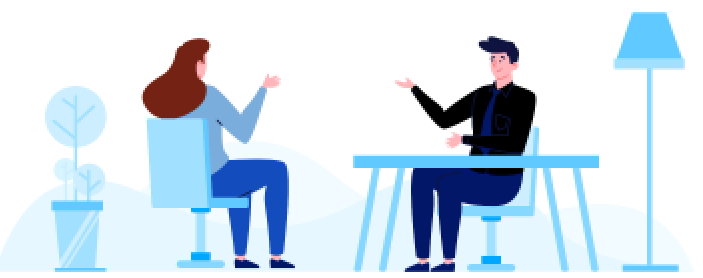
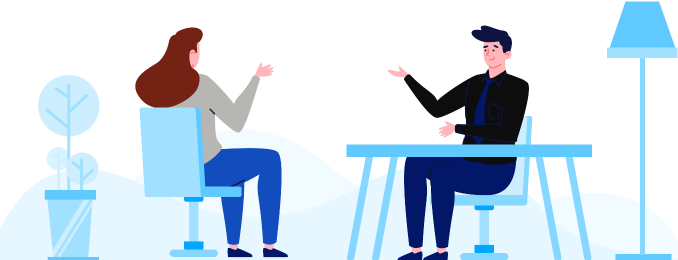
Remove unused parts
Removes unused classes, adds new classes to be used and make them functional.

diff --git a/src/app/components/dadosPessoais/dadosPessoais.component.ts b/src/app/components/dadosPessoais/dadosPessoais.component.ts
@@ -1,10 +1,10 @@
 import { Component, OnInit } from '@angular/core';
 import { FormBuilder, FormGroup, Validators } from '@angular/forms';
-import { Call } from 'src/models/call.model';
-import { Location } from '@angular/common';
-import { Destination } from 'src/models/destination.model';
-import { Plan } from 'src/models/plan.model';
 import { Mocker } from 'src/helpers/Mocker';
+
+import { Location } from 'src/models/location.model'
+import { PersonalData } from 'src/models/personalData.model'
+import { SocialMedia } from 'src/models/socialMedia.model'
 
 @Component({
   selector: 'dadosPessoais',
@@ -12,77 +12,46 @@ import { Mocker } from 'src/helpers/Mocker';
   styleUrls: ['./dadosPessoais.component.scss']
 })
 export class DadosPessoaisComponent implements OnInit {
+  public locations: Array<Location> = null;
+  public socialMedias: Array<SocialMedia> = null;
 
-  public callOptions: Array<Call> = null;
-  public plans: Array<Plan> = null;
-  public selectedCall: Call = null;
-  public showPrices: boolean = false;
-
-  public faleMaisPrice: number = 0;
-  public normalPrice: number = 0;
-
-  
-  public simuladorForm = this.fb.group({
-    selectedCallId: [0],
-    selectedDestinyId: [0],
-    time: [15, [Validators.max(600), Validators.min(1), Validators.required]],
-    plan: [null, Validators.required],
+  public dataForm = this.fb.group({
+    name: null,
+    phone: null,
+    knownFrom: [0],
+    socialMedia: [null, Validators.required],
   });
+
 
   constructor(private fb: FormBuilder) { }
   
   ngOnInit() {
-    this.callOptions = Mocker.mockCalls();
-    this.plans = Mocker.mockPlans();
-    this.selectedCall = this.callOptions[0];
+    this.locations = Mocker.mockLocations();
+    this.socialMedias = Mocker.mockSocialMedias();
   }
 
 
-  callSelected() { 
-    this.selectedCall = this.callOptions[this.simuladorForm.get('selectedCallId').value]
-    this.updatePrice();
+  updated() {
+    console.log("\n\n")
+    console.log(this.dataForm.get('name').value)
+    console.log(this.dataForm.get('phone').value)
+    console.log(this.dataForm.get('knownFrom').value)
+    console.log(this.dataForm.get('socialMedia').value)
   }
 
+  socialMediaSelected(event) {
+    var selectedMedia = event.path[1];
+    var [comment, ...medias]: Array<any> = event.path[2].childNodes;
+    
+    var selectedStyle: string = "background-color: var(--PRIMARY-COLOR); color: white; border-color: var(--PRIMARY-COLOR); font-weight: 500";
+    var defaultStyle: string = "background-color: white; color: black; border-color: black; font-weight: 100";
 
-  planSelected(event) {
-    var selectedPlan = event.path[1];
-    var [comment, ...plans]: Array<any> = event.path[2].childNodes;
-    
-    var selectedStyle:string = "background-color: var(--PRIMARY-COLOR); color: white; border-color: var(--PRIMARY-COLOR); font-weight: 500";
-    var defaultStyle:string = "background-color: white; color: black; border-color: black; font-weight: 100";
-    
-    plans.forEach(plan => {
-      plan == selectedPlan ?
+    medias.forEach(plan => {
+      plan == selectedMedia ?
               plan.setAttribute("style", selectedStyle) : 
               plan.setAttribute("style", defaultStyle);
     });
 
-    this.updatePrice();
+    this.updated();
   }
-
-
-  updatePrice(): void {
-    // UPDATED ONLY IF FORM IS VALID
-    if(this.simuladorForm.valid)  this.showPrices = true;
-    else                          return;
-    
-    var usedTime = this.simuladorForm.get('time').value;
-    var availableMinutes: number = parseInt(this.simuladorForm.get('plan').value);
-    var price: number =  this.selectedCall.destinations[this.simuladorForm.get('selectedDestinyId').value].price;
-    
-
-    this.faleMaisPrice = Math.max(0, (usedTime - availableMinutes)) * price;
-    this.normalPrice = usedTime * price;
-  }
-
-  
-  getInteger(numb): string { 
-    var intString: string = (numb + "").split(".")[0]                           // Gets int part
-    return intString.length < 2 ? '0' + intString : intString;                  // Turns 'x' to '0x' 
-  }
-  getDecimal(numb): string {
-    var formatedDecimal: string = (Math.round(numb * 100) / 100).toFixed(2);   // Formats 'xx.x' to 'xx.x0'
-    return (formatedDecimal).split(".")[1]                                     // Gets decimal part
-  }
-
 }

diff --git a/src/helpers/Mocker.ts b/src/helpers/Mocker.ts
@@ -1,64 +1,21 @@
-import { Call } from 'src/models/call.model';
-import { Plan } from 'src/models/plan.model';
-import { Destination } from 'src/models/destination.model';
+import { Location } from 'src/models/location.model';
+import { SocialMedia } from 'src/models/socialMedia.model';
+
 
 export class Mocker {
-    static mockCalls(): Array<Call> {
-        let location011: Location = <Location> <any> { 'name': 'São Paulo', 'ddd': '011' };
-        let location016: Location = <Location> <any> { 'name': 'São Paulo', 'ddd': '016' };
-        let location017: Location = <Location> <any> { 'name': 'São Paulo', 'ddd': '017' };
-        let location018: Location = <Location> <any> { 'name': 'São Paulo', 'ddd': '018' };
+    static mockLocations(): Array<Location> {
+        let location0 = <Location> <any> { 'id': 0, 'name': 'Internet'}
+        let location1 = <Location> <any> { 'id': 1, 'name': 'Tv'}
+        let location2 = <Location> <any> { 'id': 2, 'name': 'Outros'}
         
-
-        // Calls From 011
-        let destination011_016 = <Destination> <any> { 'location': location016, 'price': 1.90 }
-        let destination011_017 = <Destination> <any> { 'location': location017, 'price': 1.70 }
-        let destination011_018 = <Destination> <any> { 'location': location018, 'price': 0.90 }
-
-        let call011 = <Call> <any> {
-            'origin': location011,
-            'destinations': [destination011_016, destination011_017, destination011_018]
-        }
-
-
-        // Call From 016
-        let destination016_011 = <Destination> <any> { 'location': location011, 'price': 2.90}
-
-        let call016 = <Call> <any> {
-            'origin': location016,
-            'destinations': [destination016_011]
-        }
-
-
-        // Call From 017
-        let destination017_011 = <Destination> <any> { 'location': location011, 'price': 2.70 }
-
-        let call017 = <Call> <any> {
-            'origin': location017,
-            'destinations': [destination017_011]
-        }
-
-
-        // Call From 018
-        let destination018_011 = <Destination> <any> { 'location': location011, 'price': 1.90}
-
-        let call018 = <Call> <any> {
-            'origin': location018,
-            'destinations': [destination018_011]
-        }
-
-
-        return [call011, call016, call017, call018];
+        return [location0, location1, location2];
     }
 
-
-    static mockPlans(): Array<Plan> {
-        let plan30 = <Plan> <any> { 'name': 'faleMais30', 'time': 30 }
-        let plan60 = <Plan> <any> { 'name': 'faleMais60', 'time': 60 }
-        let plan90 = <Plan> <any> { 'name': 'faleMais90', 'time': 90 }
-        let plan120 = <Plan> <any> { 'name': 'faleMais120', 'time': 120 }
-
-        return [plan30, plan60, plan90, plan120]
+    static mockSocialMedias(): Array<SocialMedia> {
+        let socialMedia0 = <SocialMedia> <any> { 'id': 0, 'name': 'Facebook'}
+        let socialMedia1 = <SocialMedia> <any> { 'id': 1, 'name': 'Linkedin'}
+        let socialMedia2 = <SocialMedia> <any> { 'id': 2, 'name': 'Instagram'}
+        
+        return [socialMedia0, socialMedia1, socialMedia2];
     }
-
 }

diff --git a/src/app/components/dadosPessoais/dadosPessoais.component.html b/src/app/components/dadosPessoais/dadosPessoais.component.html
@@ -3,48 +3,45 @@
 
 
     <!-- INPUTS -->
-    <form class="text-left" [formGroup]="simuladorForm">
+    <form class="text-left" [formGroup]="dataForm">
       <div class="row">
         <div class="col-sm-6">
           <div class="row">
             <div class="col-6">
               <label for="selectedCall">Nome</label>
-              <select class="form-control" formControlName="selectedCallId" (change)="callSelected()">
-                <option *ngFor="let call of callOptions, let i = index" value="{{i}}">
-                  {{call.origin.ddd}}
-                </option>
-              </select>
+              <input class="form-control" formControlName="name" (input)="updated()">
             </div>
             <div class="col-6">
               <label for="selectedDestiny">Telefone</label>
-              <select class="form-control" formControlName="selectedDestinyId" (change)="updatePrice()">
-                <option *ngFor="let destination of selectedCall.destinations, let i = index" value="{{i}}">
-                  {{destination.location.ddd}}
-                </option>
-              </select>
+              <input class="form-control" formControlName="phone" (input)="updated()">
+
             </div>
           </div>
         </div>
         <div class="col-sm-4 offset-sm-2">
           <label for="time">Como nos conheceu?</label>
-          <input type="number" class="form-control" formControlName="time" min="1" max="200" (input)="updatePrice()">
+          <select class="form-control" formControlName="knownFrom" (change)="updated()">
+            <option *ngFor="let location of locations, let i = index" value="{{i}}">
+              {{location.name}}
+            </option>
+          </select>
         </div>
       </div>
 
-      <div class="{{simuladorForm.get('time').valid ? 'invisible' : 'visible'}} text-right text-danger" style="line-height: 12px;">
+      <div class="{{dataForm.get('knownFrom').valid ? 'invisible' : 'visible'}} text-right text-danger" style="line-height: 12px;">
         <small> Por favor, insira um tempo entre 1 e 600. </small>
       </div> 
 
-      <label for="plan">Possui alguma rede social?</label>
+      <label for="socialMedia">Possui alguma rede social?</label>
       <div class="btn-group-toggle" data-toggle="buttons">
         <div class="row">
-          <label class="btn col-sm" *ngFor="let plan of plans">
-            <input type="radio" name="plan" formControlName="plan" id="{{plan.name}}" value="{{plan.time}}" (change)="planSelected($event)"> {{plan.name}}
+          <label class="btn col-sm" *ngFor="let socialMedia of socialMedias">
+            <input type="radio" name="socialMedia" formControlName="socialMedia" id="{{socialMedia.name}}" value="{{socialMedia.id}}" (change)="socialMediaSelected($event)"> {{socialMedia.name}}
           </label>
         </div>
       </div>
     </form>
     
-    <img id='image' class="mt-5" src="assets/bottom-image2.png" alt="Talk">
+    <img id='image' class="mt-5" src="assets/bottom-image.png" alt="Talk">
     
 </div>

diff --git a/src/styles.scss b/src/styles.scss
@@ -2,7 +2,7 @@
 @import '~bootstrap/dist/css/bootstrap.min.css';
 
 :root {
-    --PRIMARY-COLOR: #7F465B;
+    --PRIMARY-COLOR: #2B2929;
     --SECONDARY-COLOR: #6F7883; 
 }
 
